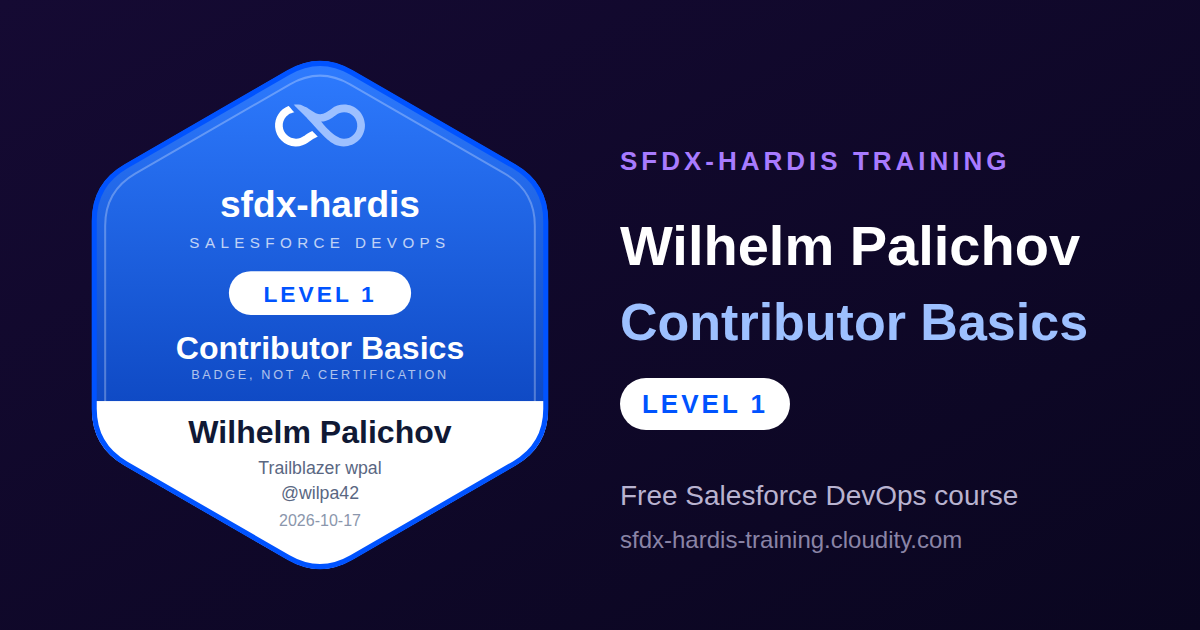
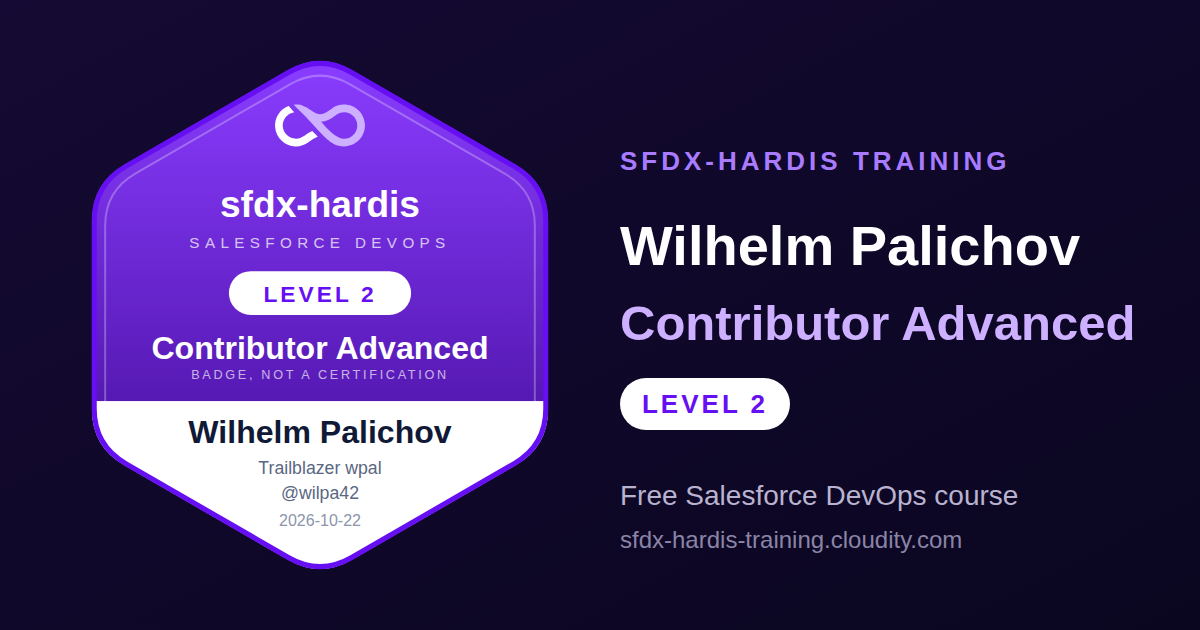
badge: level 2 for wpal (wilpa42)

diff --git a/labs/fr/level-2-contributor-advanced/index.md b/labs/fr/level-2-contributor-advanced/index.md
@@ -4,12 +4,12 @@ description: "Affrontez ce que les vraies livraisons Salesforce vous envoient : 
 id: l2-home
 level: 2
 lang: fr
-source_rev: "b9dc33b9c12622616e3d464b3b699c7448c6d5e1"
+source_rev: "e5a69ec446bc20f8b8020e8176ff64c0421fbd07"
 ---
 
 # Niveau 2 - Contributeur Salesforce DevOps avancé
 
-**Durée** : environ 5 h 45.<!-- observed --> Observé sur les Labs 2.1 à 2.9 : médiane 6 h 45, 16 participants, le plus rapide 1 h 54.<!-- /observed -->
+**Durée** : environ 6 h.<!-- observed --> Observé sur les Labs 2.1 à 2.9 : médiane 7 h 26, 17 participants, le plus rapide 1 h 54.<!-- /observed -->
 
 **Prérequis** : le [Niveau 1](../level-1-contributor-basics/index.md). Pas facultatif : chaque lab
 d'ici suppose que la boucle est automatique pour vous.
@@ -33,15 +33,15 @@ jours.
 
 | Lab                                                                   | Titre                                                                   | Durée  |
 |-----------------------------------------------------------------------|-------------------------------------------------------------------------|--------|
-| [2.1](2-1-backpromote-your-teammates-work.md)                         | Backpromote : remettre votre org de dev au niveau de l'équipe           | 35 min |
-| [2.2](2-2-fix-a-missing-dependency-deployment-error.md)               | Corriger une erreur de déploiement due à une dépendance manquante       | 25 min |
-| [2.3](2-3-fix-broken-records-with-an-apex-deployment-action.md)       | Réparer des enregistrements cassés avec une deployment action Apex      | 45 min |
+| [2.1](2-1-backpromote-your-teammates-work.md)                         | Backpromote : remettre votre org de dev au niveau de l'équipe           | 30 min |
+| [2.2](2-2-fix-a-missing-dependency-deployment-error.md)               | Corriger une erreur de déploiement due à une dépendance manquante       | 30 min |
+| [2.3](2-3-fix-broken-records-with-an-apex-deployment-action.md)       | Réparer des enregistrements cassés avec une deployment action Apex      | 50 min |
 | [2.4](2-4-ship-reference-data-and-a-batch-with-deployment-actions.md) | Livrer des données de référence et un batch avec des deployment actions | 50 min |
 | [2.5](2-5-pass-code-quality-and-apex-test-coverage.md)                | Passer la barrière de qualité de code et la couverture de tests Apex    | 25 min |
-| [2.6](2-6-permission-sets-and-profiles.md)                            | Permission sets, profils, et pourquoi une autorisation disparaît        | 30 min |
+| [2.6](2-6-permission-sets-and-profiles.md)                            | Permission sets, profils, et pourquoi une autorisation disparaît        | 35 min |
 | [2.7](2-7-resolve-a-git-merge-conflict.md)                            | Résoudre un conflit de merge Git avec un collègue                       | 50 min |
 | [2.8](2-8-recover-from-committing-the-wrong-metadata.md)              | Se remettre d'avoir commité la mauvaise métadonnée                      | 25 min |
-| [2.9](2-9-capstone-deliver-a-user-story-that-has-it-all.md)           | Épreuve finale : livrer une User Story qui a tout                       | 45 min |
+| [2.9](2-9-capstone-deliver-a-user-story-that-has-it-all.md)           | Épreuve finale : livrer une User Story qui a tout                       | 50 min |
 
 ## Le menu Training
 

diff --git a/STATS.md b/STATS.md
@@ -2,7 +2,7 @@
 
 # Course statistics
 
-Read every Monday and after every badge awarded, from the public repositories of the 74 learners who set up the course, and from the badges they claimed.
+Read every Monday and after every badge awarded, from the public repositories of the 76 learners who set up the course, and from the badges they claimed.
 Last update: 2026-10-22.
 
 ## Started and completed
@@ -11,9 +11,9 @@ A level is started when its first branch exists in the learner's repository, and
 
 | Level | Started | Share of learners | Completed | Share of started |
 |---|---|---|---|---|
-| Level 1 - Contributor basics | 74 | 100% | 50 | 68% |
-| Level 2 - Contributor advanced | 34 | 46% | 18 | 53% |
-| Level 3 - Release Manager | 17 | 23% | 10 | 59% |
+| Level 1 - Contributor basics | 76 | 100% | 50 | 66% |
+| Level 2 - Contributor advanced | 34 | 45% | 19 | 56% |
+| Level 3 - Release Manager | 18 | 24% | 10 | 56% |
 
 ## Time spent
 
@@ -22,7 +22,7 @@ The median time of the learners who went through, next to the estimate each lab 
 | Level | First estimate | Median | Fastest | Learners |
 |---|---|---|---|---|
 | Level 1 - Contributor basics | 1 h 30 | 1 h 25 | 33 min | 44 |
-| Level 2 - Contributor advanced | 4 h | 6 h 45 | 1 h 54 | 16 |
+| Level 2 - Contributor advanced | 4 h | 7 h 26 | 1 h 54 | 17 |
 | Level 3 - Release Manager | 6 h 55 | 9 h 52 | 2 h 56 | 7 |
 
 ### Level 1 - Contributor basics
@@ -42,8 +42,8 @@ The median time of the learners who went through, next to the estimate each lab 
 | Lab 2.5 | 30 min | 24 min | 6 min | 19 |
 | Lab 2.6 | 25 min | 30 min | 10 min | 19 |
 | Lab 2.7 | 35 min | 41 min | 11 min | 18 |
-| Lab 2.8 | 20 min | 27 min | 7 min | 17 |
-| Lab 2.9 | 30 min | 1 h | 23 min | 17 |
+| Lab 2.8 | 20 min | 28 min | 7 min | 18 |
+| Lab 2.9 | 30 min | 1 h 01 | 23 min | 18 |
 
 ### Level 3 - Release Manager
 
@@ -70,15 +70,15 @@ From the learners who ran **Check my work** at the end of each lab: their receip
 | Lab 1.5 | 20 min | 18 min | 7 min | 26 |
 | Lab 1.6 | 20 min | 17 min | 5 min | 25 |
 | Lab 1.7 | 25 min | 27 min | 7 min | 27 |
-| Lab 2.1 | 15 min | 35 min | 16 min | 9 |
-| Lab 2.2 | 25 min | 25 min | 8 min | 9 |
-| Lab 2.3 | 30 min | 49 min | 15 min | 9 |
-| Lab 2.4 | 30 min | 50 min | 20 min | 9 |
-| Lab 2.5 | 30 min | 29 min | 13 min | 9 |
-| Lab 2.6 | 25 min | 34 min | 10 min | 9 |
-| Lab 2.7 | 35 min | 50 min | 25 min | 9 |
-| Lab 2.8 | 20 min | 27 min | 10 min | 9 |
-| Lab 2.9 | 30 min | 48 min | 23 min | 9 |
+| Lab 2.1 | 15 min | 31 min | 16 min | 10 |
+| Lab 2.2 | 25 min | 30 min | 8 min | 10 |
+| Lab 2.3 | 30 min | 52 min | 15 min | 10 |
+| Lab 2.4 | 30 min | 52 min | 20 min | 10 |
+| Lab 2.5 | 30 min | 28 min | 13 min | 10 |
+| Lab 2.6 | 25 min | 35 min | 10 min | 10 |
+| Lab 2.7 | 35 min | 51 min | 25 min | 10 |
+| Lab 2.8 | 20 min | 28 min | 10 min | 10 |
+| Lab 2.9 | 30 min | 54 min | 23 min | 10 |
 | Lab 3.1 | 50 min | 2 h 09 | 2 h | 7 |
 | Lab 3.2 | 25 min | 22 min | 13 min | 7 |
 | Lab 3.3 | 45 min | 1 h 14 | 22 min | 7 |

diff --git a/labs/en/level-2-contributor-advanced/index.md b/labs/en/level-2-contributor-advanced/index.md
@@ -8,7 +8,7 @@ lang: en
 
 # Level 2 - Salesforce DevOps contributor advanced
 
-**Time**: about 5 h 45.<!-- observed --> Observed on Labs 2.1 to 2.9: median 6 h 45, 16 learners, fastest 1 h 54.<!-- /observed -->
+**Time**: about 6 h.<!-- observed --> Observed on Labs 2.1 to 2.9: median 7 h 26, 17 learners, fastest 1 h 54.<!-- /observed -->
 
 **Before you start**: [Level 1](../level-1-contributor-basics/index.md). Not optional: every lab here assumes the loop
 is automatic for you.
@@ -30,15 +30,15 @@ something breaks, you know where to look and what to do, and you lose minutes in
 
 | Lab                                                                   | Title                                                   | Time   |
 |-----------------------------------------------------------------------|---------------------------------------------------------|--------|
-| [2.1](2-1-backpromote-your-teammates-work.md)                         | Backpromote: catch your dev org up with the team        | 35 min |
-| [2.2](2-2-fix-a-missing-dependency-deployment-error.md)               | Fix a deployment error caused by a missing dependency   | 25 min |
-| [2.3](2-3-fix-broken-records-with-an-apex-deployment-action.md)       | Fix broken records with an Apex deployment action       | 45 min |
+| [2.1](2-1-backpromote-your-teammates-work.md)                         | Backpromote: catch your dev org up with the team        | 30 min |
+| [2.2](2-2-fix-a-missing-dependency-deployment-error.md)               | Fix a deployment error caused by a missing dependency   | 30 min |
+| [2.3](2-3-fix-broken-records-with-an-apex-deployment-action.md)       | Fix broken records with an Apex deployment action       | 50 min |
 | [2.4](2-4-ship-reference-data-and-a-batch-with-deployment-actions.md) | Ship reference data and a batch with deployment actions | 50 min |
 | [2.5](2-5-pass-code-quality-and-apex-test-coverage.md)                | Pass the code quality gate and Apex test coverage       | 25 min |
-| [2.6](2-6-permission-sets-and-profiles.md)                            | Permission sets, profiles and why a grant disappears    | 30 min |
+| [2.6](2-6-permission-sets-and-profiles.md)                            | Permission sets, profiles and why a grant disappears    | 35 min |
 | [2.7](2-7-resolve-a-git-merge-conflict.md)                            | Resolve a Git merge conflict with a teammate            | 50 min |
 | [2.8](2-8-recover-from-committing-the-wrong-metadata.md)              | Recover from committing the wrong metadata              | 25 min |
-| [2.9](2-9-capstone-deliver-a-user-story-that-has-it-all.md)           | Capstone: deliver a User Story that has it all          | 45 min |
+| [2.9](2-9-capstone-deliver-a-user-story-that-has-it-all.md)           | Capstone: deliver a User Story that has it all          | 50 min |
 
 ## The Training menu
 

diff --git a/labs/fr/index.md b/labs/fr/index.md
@@ -3,7 +3,7 @@ title: "Formation Salesforce DevOps gratuite et pratique"
 description: "Formation Salesforce DevOps gratuite et pratique en trois niveaux : Git, Pull Requests, pipelines CI/CD et gestion des releases avec sfdx-hardis et VS Code."
 id: home
 lang: fr
-source_rev: "256f456eb5d3263d46ebec9b72828d00c4981cbe"
+source_rev: "73208830e961ac5c6d3656b671532f6a992d51fd"
 ---
 
 # Formation Salesforce DevOps avec sfdx-hardis
@@ -41,7 +41,7 @@ que vous suivez sa Pull Request jusqu'à la production.*
 | Niveau                                                                 | Pour qui                                                            | Durée  | Prérequis          | À la fin, vous savez                                                                                               |
 |------------------------------------------------------------------------|---------------------------------------------------------------------|--------|--------------------|--------------------------------------------------------------------------------------------------------------------|
 | [**1 - Contributeur, les bases**](level-1-contributor-basics/index.md) | Admins et développeurs qui rejoignent une équipe ayant une pipeline | 2 h    | Rien               | Prendre une User Story, la construire, la publier, obtenir une Pull Request verte, la merger                       |
-| [**2 - Contributeur avancé**](level-2-contributor-advanced/index.md)   | Les mêmes, une fois les histoires faciles derrière eux              | 5 h 45 | Niveau 1           | Résoudre les erreurs de déploiement, déclarer des deployment actions, gérer les écrasements, résoudre les conflits |
+| [**2 - Contributeur avancé**](level-2-contributor-advanced/index.md)   | Les mêmes, une fois les histoires faciles derrière eux              | 6 h    | Niveau 1           | Résoudre les erreurs de déploiement, déclarer des deployment actions, gérer les écrasements, résoudre les conflits |
 | [**3 - Release Manager**](level-3-release-manager/index.md)            | Celui ou celle qui tient la pipeline, les orgs et les releases      | 8 h 15 | Niveaux 1 **et** 2 | Reprendre une org sans pipeline, relire et merger, livrer en UAT et en production, faire un hotfix, monitorer      |
 
 Les niveaux 1 et 2 forment ensemble le parcours contributeur, et ils s'adressent **autant aux admins

diff --git a/labs/en/index.md b/labs/en/index.md
@@ -32,7 +32,7 @@ Pull Request to production.*
 | Level                                                                 | Who it is for                                                    | Time   | Before you start   | You finish able to                                                                                  |
 |-----------------------------------------------------------------------|------------------------------------------------------------------|--------|--------------------|-----------------------------------------------------------------------------------------------------|
 | [**1 - Contributor basics**](level-1-contributor-basics/index.md)     | Admins and developers joining a team that already has a pipeline | 2 h    | Nothing            | Take a User Story, build it, publish it, get a green Pull Request, merge it                         |
-| [**2 - Contributor advanced**](level-2-contributor-advanced/index.md) | The same people, once the easy stories are behind them           | 5 h 45 | Level 1            | Solve deployment errors, declare deployment actions, handle overwrites, resolve conflicts           |
+| [**2 - Contributor advanced**](level-2-contributor-advanced/index.md) | The same people, once the easy stories are behind them           | 6 h    | Level 1            | Solve deployment errors, declare deployment actions, handle overwrites, resolve conflicts           |
 | [**3 - Release Manager**](level-3-release-manager/index.md)           | The person who owns the pipeline, the orgs and the releases      | 8 h 15 | Levels 1 **and** 2 | Take over an org with no pipeline, review and merge, release to UAT and production, hotfix, monitor |
 
 Levels 1 and 2 are both the contributor path, and they are for **admins and developers alike**. You

diff --git a/labs/fr/level-2-contributor-advanced/2-1-backpromote-your-teammates-work.md b/labs/fr/level-2-contributor-advanced/2-1-backpromote-your-teammates-work.md
@@ -5,7 +5,7 @@ description: "Votre org de développement est en retard sur integration. Faites-
 level: 2
 lab: 1
 lang: fr
-source_rev: "7a2ec9fd8eb1bbf2362df4b106269cce4afb53ab"
+source_rev: "914daa63c8d5a5cc229641421a342ba852ca2d41"
 screenshots:
   - annotated/vscode/sidebar-commands-custom-menu-2--training-menu
   - annotated/web/github-pr-files
@@ -27,7 +27,7 @@ depends_on:
 
 **Niveau** : 2 Contributeur avancé
 
-**Durée** : ~35 min<!-- observed --> (observé : médiane 35 min, 9 participants, le plus rapide 16 min)<!-- /observed -->
+**Durée** : ~30 min<!-- observed --> (observé : médiane 31 min, 10 participants, le plus rapide 16 min)<!-- /observed -->
 
 **Vous allez** : rapatrier dans votre propre org de dev la story mergée par un collègue, décider
 quoi garder quand l'outil vous le demande, et apprendre ce qu'un backpromote ne fera jamais pour

diff --git a/labs/fr/level-2-contributor-advanced/2-7-resolve-a-git-merge-conflict.md b/labs/fr/level-2-contributor-advanced/2-7-resolve-a-git-merge-conflict.md
@@ -5,7 +5,7 @@ description: "Une collègue a mergé en premier sur le même flow et le même pe
 level: 2
 lab: 7
 lang: fr
-source_rev: "e66a75856a15daec3d24a4faaaff6e5a15c0deb5"
+source_rev: "506d6d6f4dbd2afe2e2718df80bf1af39cedb840"
 screenshots:
   - annotated/salesforce/flow-builder-assign-crew
   - annotated/salesforce/flow-builder-assign-crew-full
@@ -30,7 +30,7 @@ depends_on:
 
 **Niveau** : 2 Contributeur avancé
 
-**Durée** : ~50 min<!-- observed --> (observé : médiane 50 min, 9 participants, le plus rapide 25 min)<!-- /observed -->
+**Durée** : ~50 min<!-- observed --> (observé : médiane 51 min, 10 participants, le plus rapide 25 min)<!-- /observed -->
 
 **Vous allez** : affronter un vrai conflit de merge sur deux fichiers qui entrent en conflit de façon
 très différente, et résoudre les deux sans perdre le travail de personne.

diff --git a/labs/fr/level-2-contributor-advanced/2-2-fix-a-missing-dependency-deployment-error.md b/labs/fr/level-2-contributor-advanced/2-2-fix-a-missing-dependency-deployment-error.md
@@ -5,7 +5,7 @@ description: "Modifiez un flow Salesforce existant, puis lisez correctement un c
 level: 2
 lab: 2
 lang: fr
-source_rev: "fc1b1bc4ad355d29d8bd7a867eec921cacc58d5c"
+source_rev: "057fc0718a3514c831d5abc133cbe1179501c452"
 screenshots:
   - annotated/vscode/package-xml-filtered
   - annotated/vscode/editor-field-file
@@ -31,7 +31,7 @@ depends_on:
 
 **Niveau** : 2 Contributeur avancé
 
-**Durée** : ~25 min<!-- observed --> (observé : médiane 25 min, 9 participants, le plus rapide 8 min)<!-- /observed -->
+**Durée** : ~30 min<!-- observed --> (observé : médiane 30 min, 10 participants, le plus rapide 8 min)<!-- /observed -->
 
 **Vous allez** : modifier un flow qui tourne déjà en production, rencontrer votre premier contrôle de
 déploiement en échec, lire l'erreur correctement, et trouver ce que votre package a oublié.

diff --git a/labs/fr/level-2-contributor-advanced/2-5-pass-code-quality-and-apex-test-coverage.md b/labs/fr/level-2-contributor-advanced/2-5-pass-code-quality-and-apex-test-coverage.md
@@ -5,7 +5,7 @@ description: "Corrigez une trouvaille PMD et la couverture de code Apex qui bloq
 level: 2
 lab: 5
 lang: fr
-source_rev: "1697a1e570f2985ff124725cce6540266e5d2400"
+source_rev: "86bceec6d16042c44931fad6ef937d9269ce0a6b"
 screenshots:
   - annotated/vscode/pipeline-cards--new-user-story
   - annotated/vscode/org-monitoring--apex-tests
@@ -21,7 +21,7 @@ depends_on:
 
 **Niveau** : 2 Contributeur avancé
 
-**Durée** : ~25 min<!-- observed --> (observé : médiane 29 min, 9 participants, le plus rapide 13 min)<!-- /observed -->
+**Durée** : ~25 min<!-- observed --> (observé : médiane 28 min, 10 participants, le plus rapide 13 min)<!-- /observed -->
 
 **Vous allez** : être bloqué deux fois par des robots, corriger les deux correctement plutôt que de
 les contourner, et apprendre à lancer les contrôles avant de pousser.

diff --git a/labs/fr/level-2-contributor-advanced/2-8-recover-from-committing-the-wrong-metadata.md b/labs/fr/level-2-contributor-advanced/2-8-recover-from-committing-the-wrong-metadata.md
@@ -5,7 +5,7 @@ description: "Vous avez publié bien plus que votre story. Voyez ce que cela fai
 level: 2
 lab: 8
 lang: fr
-source_rev: "cdc1ed616aa967f0eeb3fabfad8b356c419eafac"
+source_rev: "cdbd123077cb2e37a84f2d68f72abb38ea002aca"
 screenshots:
   - annotated/vscode/pipeline-cards--new-user-story
   - annotated/vscode/metadata-retriever-recent-changes--pick-rows
@@ -23,7 +23,7 @@ depends_on:
 
 **Niveau** : 2 Contributeur avancé
 
-**Durée** : ~25 min<!-- observed --> (observé : médiane 27 min, 9 participants, le plus rapide 10 min)<!-- /observed -->
+**Durée** : ~25 min<!-- observed --> (observé : médiane 28 min, 10 participants, le plus rapide 10 min)<!-- /observed -->
 
 **Vous allez** : sur-sélectionner exprès au moment de publier, voir ce que cela fait à une Pull
 Request, et apprendre les deux chemins de récupération.

diff --git a/labs/fr/level-2-contributor-advanced/2-4-ship-reference-data-and-a-batch-with-deployment-actions.md b/labs/fr/level-2-contributor-advanced/2-4-ship-reference-data-and-a-batch-with-deployment-actions.md
@@ -5,7 +5,7 @@ description: "Un déploiement vert n'est pas une fonctionnalité qui marche. Liv
 level: 2
 lab: 4
 lang: fr
-source_rev: "607690d440e03a490380dc012932dd82d59bc330"
+source_rev: "c72ca9f96704697b71367d28e8d7cfe4b355ade8"
 screenshots:
   - annotated/vscode/sidebar-commands-custom-menu-2--lab-records
   - annotated/salesforce/crew-capacity-records
@@ -28,7 +28,7 @@ depends_on:
 
 **Niveau** : 2 Contributeur avancé
 
-**Durée** : ~50 min<!-- observed --> (observé : médiane 50 min, 9 participants, le plus rapide 20 min)<!-- /observed -->
+**Durée** : ~50 min<!-- observed --> (observé : médiane 52 min, 10 participants, le plus rapide 20 min)<!-- /observed -->
 
 **Vous allez** : rencontrer la pire espèce d'échec, celle où rien n'échoue, et la corriger avec trois
 deployment actions de trois types différents.

diff --git a/labs/fr/level-2-contributor-advanced/2-6-permission-sets-and-profiles.md b/labs/fr/level-2-contributor-advanced/2-6-permission-sets-and-profiles.md
@@ -5,7 +5,7 @@ description: "Une permission accordée sur un profil s'évapore après un déplo
 level: 2
 lab: 6
 lang: fr
-source_rev: "8aea6deb4b52f642bdde05086c78dd9fc64c3b82"
+source_rev: "139308714a4a6baf3f1b0786c5bdc0632c8cd3e4"
 screenshots:
   - annotated/vscode/pipeline-cards--new-user-story
   - annotated/vscode/pipeline-packages-menu--package-xml
@@ -22,7 +22,7 @@ depends_on:
 
 **Niveau** : 2 Contributeur avancé
 
-**Durée** : ~30 min<!-- observed --> (observé : médiane 34 min, 9 participants, le plus rapide 10 min)<!-- /observed -->
+**Durée** : ~35 min<!-- observed --> (observé : médiane 35 min, 10 participants, le plus rapide 10 min)<!-- /observed -->
 
 **Vous allez** : courir après une permission qui s'évapore entre un déploiement vert et l'org cible,
 et découvrir qu'elle a été retirée exprès.
